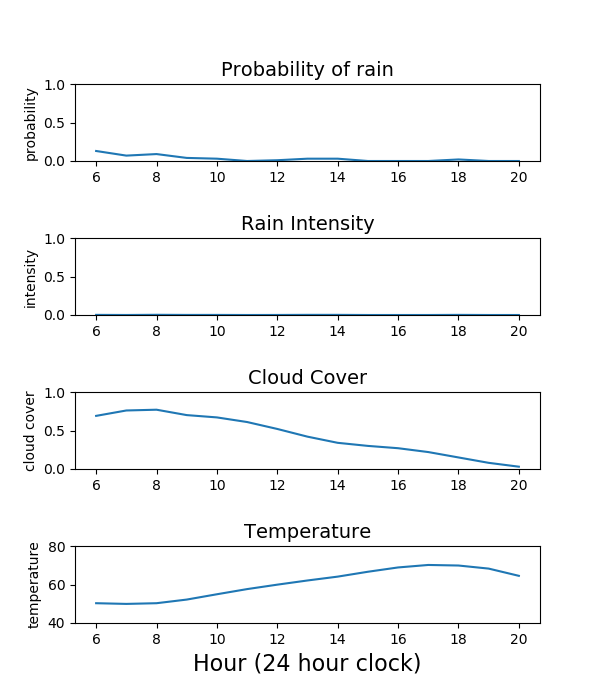
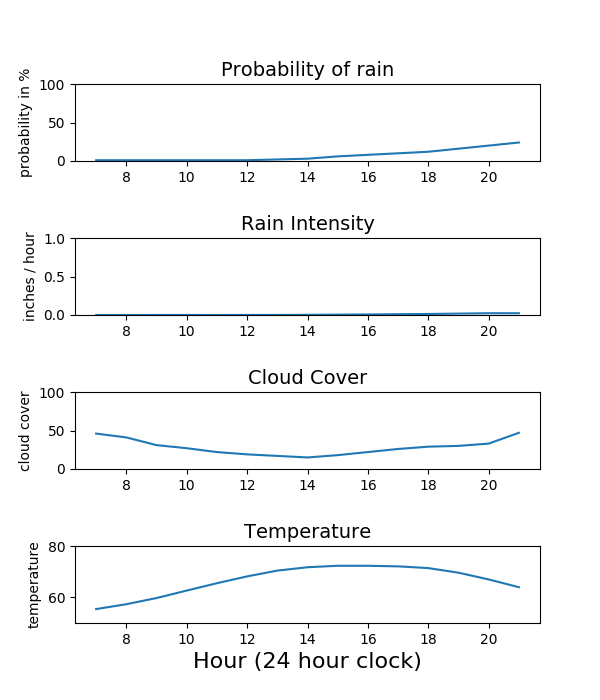
changed log level for matplotlib.  It was set at DEBUG.  Changed to WARNING.  Cleaned up some of the errorhandling.

diff --git a/Rasp_Pi_2018/should_i_water/plot_weather_lib.py b/Rasp_Pi_2018/should_i_water/plot_weather_lib.py
@@ -23,8 +23,14 @@ class PlotWeather:
         '''
         http = urllib3.PoolManager(cert_reqs='CERT_REQUIRED',ca_certs=certifi.where())
         WEATHER_URL = os.environ.get("WEATHER_URL")
+
         url = WEATHER_URL
-        request = http.request('GET',url)
+        try:
+            request = http.request('GET',url)
+        except urllib3.exceptions.LocationValueError as e:
+            error_string = "WEATHER_URL is not set.  The error message is: " + str(e)
+            self.handle_logging.print_error(error_string)
+            return None
         # Try a five times in case there is a failure to connect
         for i in range(5):
             try:
@@ -50,7 +56,10 @@ class PlotWeather:
         cloud cover, and temperature.  Each reading will be in it's own graph.
         store in PNG file.
         '''
+
         prediction_list = self.get_weather_forecast()
+        if prediction_list == None:
+            return False
         # Set up the numpy array.
         array = np.array(prediction_list)
         # Set up the x-axis. The array's columns = hour, intensity, probability, cloud_cover, temperature.
@@ -68,20 +77,20 @@ class PlotWeather:
         # make room for 4 subplots.  We picked a size that looks good when the plot is saved as a png.
         fig, (ax1,ax2,ax3,ax4) = plt.subplots(nrows=4,figsize=(6,7))
         # The first plot will be the probability of rain.
-        ax1.set_ylim([0,1])
-        ax1.plot(hour,probability)
-        ax1.set_ylabel('probability')
+        ax1.set_ylim([0,100]) # Show probability in %
+        ax1.plot(hour,probability*100)
+        ax1.set_ylabel('probability in %')
         ax1.set_title('Probability of rain',fontsize = 14)
         # The second plot will be the expected intensity of rain (assuming it rains at all).
         ax2.set_ylim([0,1])
         ax2.set_title('Rain Intensity',fontsize = 14)
-        ax2.set_ylabel('intensity')
+        ax2.set_ylabel('inches / hour')
         ax2.plot(hour,intensity)
         # Plot the cloud cover
-        ax3.set_ylim([0,1])
+        ax3.set_ylim([0,100])
         ax3.set_title('Cloud Cover',fontsize = 14)
         ax3.set_ylabel('cloud cover')
-        ax3.plot(hour,cloud_cover)
+        ax3.plot(hour,cloud_cover*100)
         # Plot the temperature
         ax4.set_xlabel('Hour (24 hour clock)',fontsize = 16)
         ax4.set_title('Temperature',fontsize = 14)
@@ -102,7 +111,8 @@ class PlotWeather:
         try:
             WEATHER_PNG = os.environ.get("WEATHER_PNG")
         except KeyError as e:
-            handle_logging.print_error(e)
+            self.handle_logging.print_error(e)
         else:
             fig.savefig(WEATHER_PNG)
             plt.close(fig)
+        return True

diff --git a/Rasp_Pi_2018/should_i_water/send_mail_task.py b/Rasp_Pi_2018/should_i_water/send_mail_task.py
@@ -3,9 +3,11 @@
 from build_message_lib import BuildMessage
 from plot_weather_lib import PlotWeather
 from send_message_lib import SendMessage
-
+# TODO: Error checking needs improvement.
+# plot_weather() returns True (could create a PNG) or False (PNG of weather
+# could not be created).  Yet, build message assumes multiplart MIME with the
+# Weather PNG in place.
 p = PlotWeather()
-p.plot_weather()
 b = BuildMessage()
 # send margaret a message.  False means send detailed data.
 m = b.build_message('Margaret',False)

diff --git a/Rasp_Pi_2018/should_i_water/handle_logging_lib.py b/Rasp_Pi_2018/should_i_water/handle_logging_lib.py
@@ -5,7 +5,13 @@ import os
 import sys
 
 LOGFILE = os.environ.get("LOGFILE")
+# set DEBUG for everything
 logging.basicConfig(filename=LOGFILE,level=logging.DEBUG)
+# matplotlib was clogging up the logfile.
+# From https://matplotlib.org/faq/troubleshooting_faq.html
+logger = logging.getLogger('matplotlib')
+# set WARNING for Matplotlib
+logger.setLevel(logging.WARNING)
 
 class BaseClass:
     def __init__(self):
